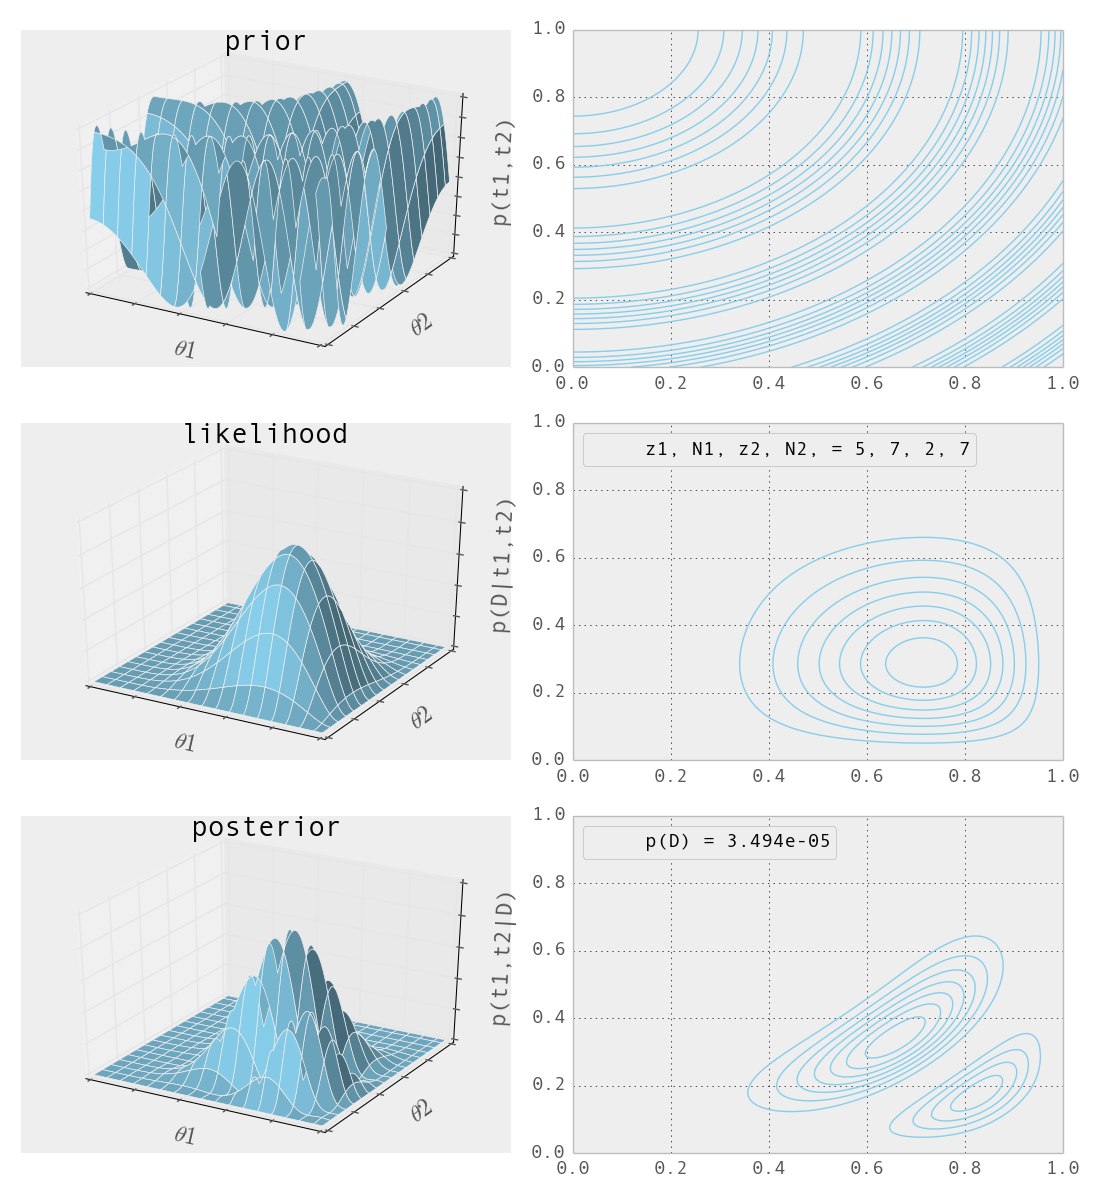
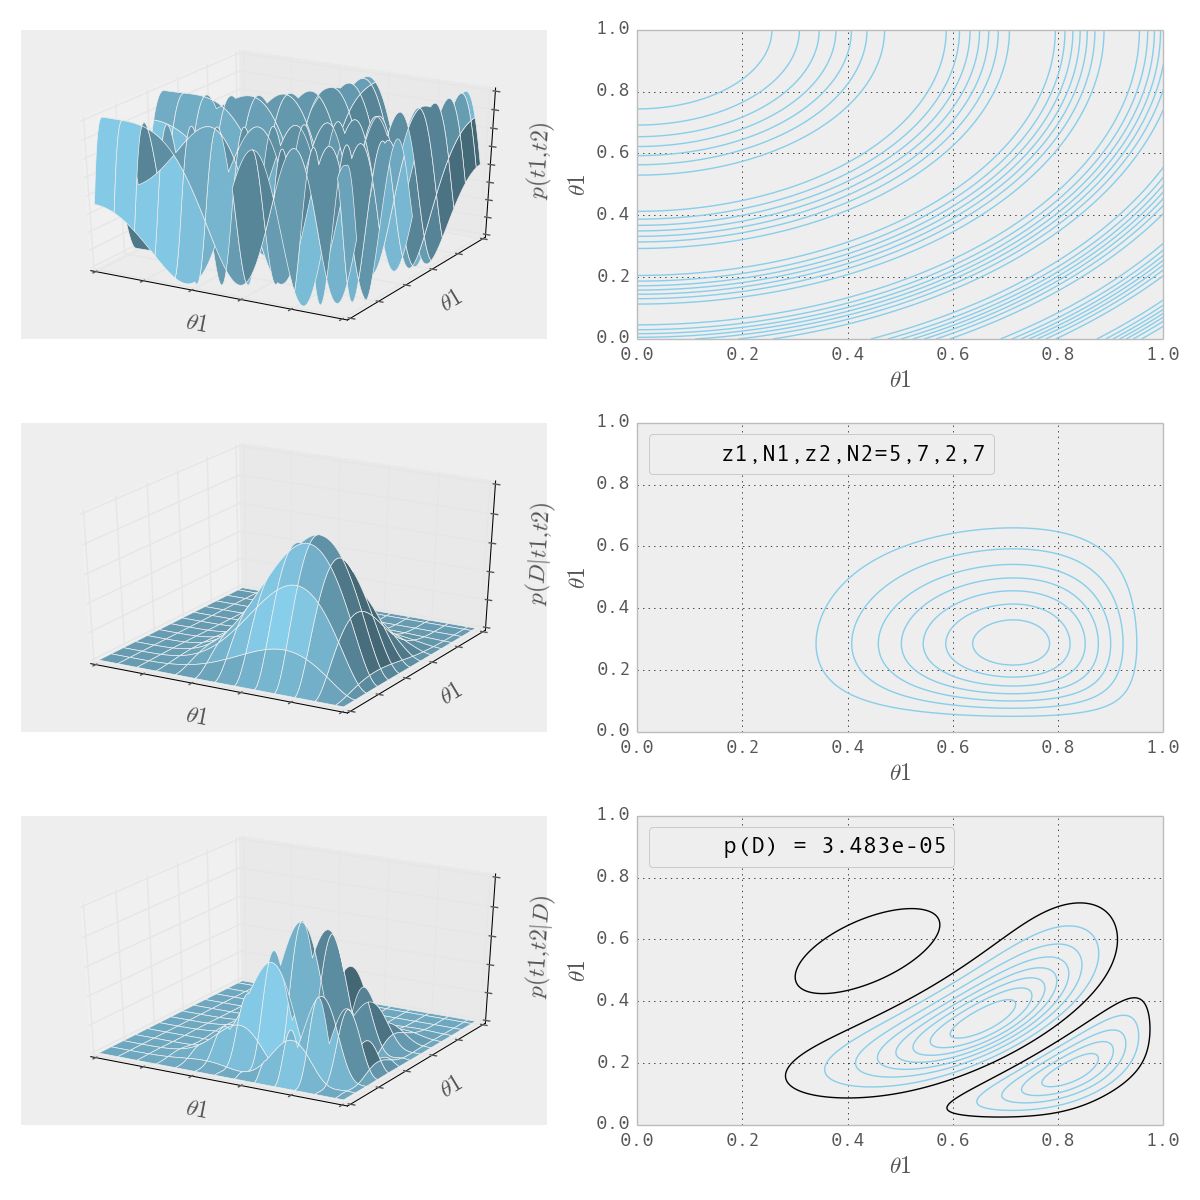
now with HDI contour!

diff --git a/08_BernTwoGrid.py b/08_BernTwoGrid.py
@@ -5,18 +5,19 @@ from __future__ import division
 import matplotlib.pyplot as plt
 from mpl_toolkits.mplot3d.axes3d import Axes3D
 from scipy.stats import beta
+from HDI_of_grid import HDI_of_grid
 import numpy as np
 
 
 # Specify the grid on theta1,theta2 parameter space.
-n_int = 500 # arbitrary number of intervals for grid on theta.
+n_int = 500  # arbitrary number of intervals for grid on theta.
 theta1 = np.linspace(0, 1, n_int)
 theta2 = theta1
 
 theta1_grid, theta2_grid = np.meshgrid(theta1, theta2)
 
 # Specify the prior probability _masses_ on the grid.
-prior_name = ("Beta","Ripples","Null","Alt")[0] # or define your own.
+prior_name = ("Beta","Ripples","Null","Alt")[0]  # or define your own.
 if prior_name == "Beta":
     a1, b1, a2, b2 = 3, 3, 3, 3
     prior1 = beta.pdf(theta1_grid, a1, b1)
@@ -102,9 +103,10 @@ plt.xlabel(r'$\theta1$')
 plt.ylabel(r'$\theta1$')
 plt.plot(0, label='p(D) = %.3e' % p_data, alpha=0)
 plt.legend(loc='upper left')
-# Mark the highest posterior density region
-# TODO 
 
+# Mark the highest posterior density region
+HDI_height = HDI_of_grid(posterior)['height']
+plt.contour(theta1_grid, theta2_grid, posterior, levels=[HDI_height], colors='k')
 
 plt.tight_layout()
 plt.savefig('BernTwoGrid_%s.png' % prior_name)
